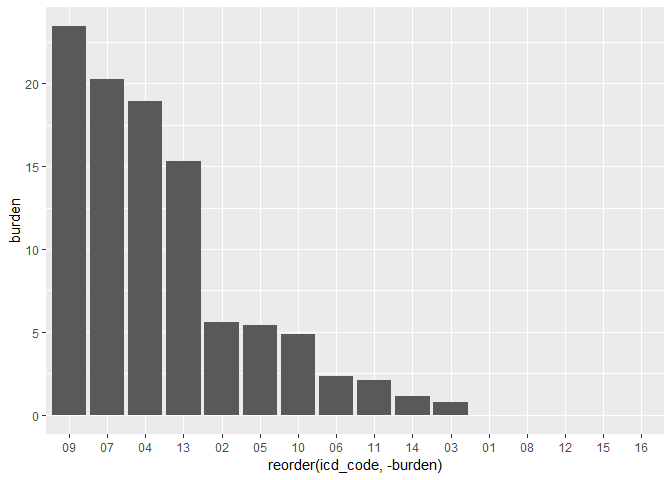
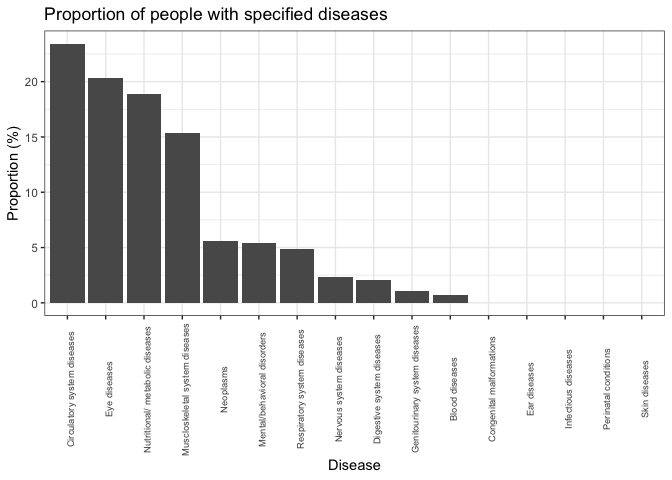
Proportion of ICD10 diseases graph

diff --git a/draft.md b/draft.md
@@ -121,12 +121,41 @@ bar_graph =
   gather(key = icd_code, value = total, total_01:total_16) %>% 
   separate(icd_code, into = c("total_char","icd_code"), sep = "_") %>% 
   select(-total_char) %>% 
-  mutate(burden = total/sum(total)*100)
+  mutate(burden = total/sum(total)*100) %>% 
+  mutate(disease = case_when(
+    icd_code == "01" ~ "Infectious diseases",
+    icd_code == "02" ~ "Neoplasms",
+    icd_code == "03" ~ "Blood diseases",
+    icd_code == "04" ~ "Nutritional/ metabolic diseases",
+    icd_code == "05" ~ "Mental/behavioral disorders",
+    icd_code == "06" ~ "Nervous system diseases",
+    icd_code == "07" ~ "Eye diseases",
+    icd_code == "08" ~ "Ear diseases",
+    icd_code == "09" ~ "Circulatory system diseases",
+    icd_code == "10" ~ "Respiratory system diseases",
+    icd_code == "11" ~ "Digestive system diseases",
+    icd_code == "12" ~ "Skin diseases",
+    icd_code == "13" ~ "Muscloskeletal system diseases",
+    icd_code == "14" ~ "Genitourinary system diseases",
+    icd_code == "15" ~ "Perinatal conditions",
+    icd_code == "16" ~ "Congenital malformations"
+  ))
  
 
 bar_graph %>% 
-  ggplot(aes(x = reorder(icd_code, -burden), y = burden)) +
-  geom_bar(stat = "identity")
+  ggplot(aes(x = reorder(disease, -burden), y = burden)) +
+  geom_bar(stat = "identity") + 
+  labs(
+    title = "Proportion of people with specified diseases",
+    x = "Disease",
+    y = "Proportion (%)"
+  ) + 
+  viridis::scale_color_viridis(
+    name = "Location", 
+    discrete = TRUE
+  ) + 
+  theme_bw() +
+  theme(axis.text.x = element_text(angle = 90, size = 7))
 ```
 
 ![](draft_files/figure-markdown_github/bar_graph-1.png)
